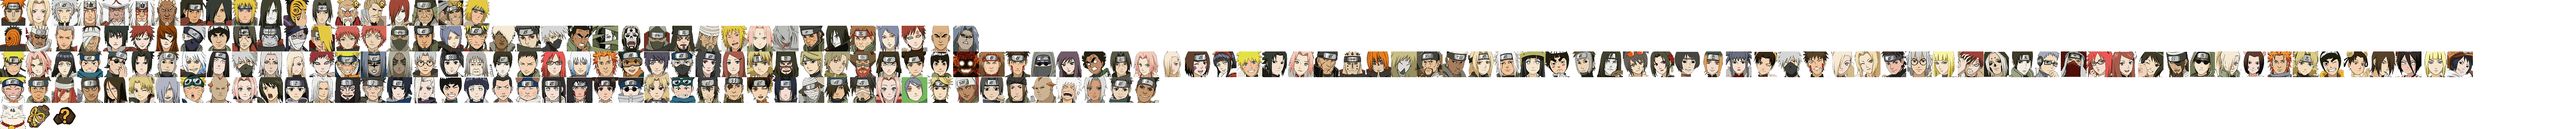
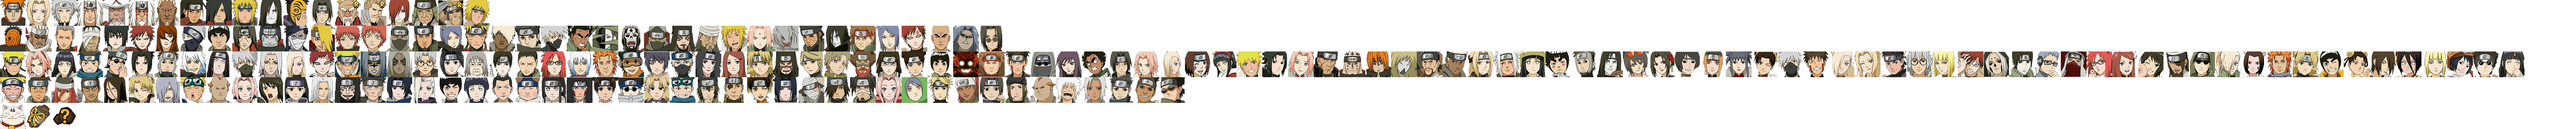
分享图忍者更新
1. 宇智波鼬[新春限定]、油女志乃[新春限定]、山城青叶

Changed region(s): [[0.9375, 0.3961, 1.0, 0.6094], [0.4375, 0.5789, 0.4688, 0.7922], [0.375, 0.1828, 0.4062, 0.3961]]

diff --git a/ninjashare.html b/ninjashare.html
@@ -264,7 +264,7 @@ function fastmode(){
                 </div>
                 <div class="form_item form_item_ninja">
                 	<label class="dt">忍者数量</label>
-                    <div class="dd"><input maxscore="196" type="number" name="ninja_number" id="input_ninja_number" class="input_text" placeholder="最多196个" oninput="MaxScore($(this));" onBlur="tongbuimg($('#txt_wode_num'),this)" data-default="100" /></div>
+                    <div class="dd"><input maxscore="202" type="number" name="ninja_number" id="input_ninja_number" class="input_text" placeholder="最多202个" oninput="MaxScore($(this));" onBlur="tongbuimg($('#txt_wode_num'),this)" data-default="100" /></div>
                 </div>
                 
                 <div class="btns">
@@ -509,6 +509,12 @@ function fastmode(){
 								
 								<li class="line"></li>
 								
+                                <li class="item_wrap btn ease1" data-rank="a" data-id="90279" data-name="宇智波鼬[新春限定]">
+                                    <div class="item">
+                                        <div class="img" style="background-position:-2736px -72px;"></div>
+                                        <div class="fg"></div>
+                                    </div>
+                                </li>
                                 <li class="item_wrap btn ease1" data-rank="a" data-id="90274" data-name="宇智波佐助[疾风传咒印]">
                                     <div class="item">
                                         <div class="img" style="background-position:-2664px -72px;"></div>
@@ -609,6 +615,12 @@ function fastmode(){
                         </div>
                         <div class="tabbox_bd_item tabbox_bd_item_b">
                             <ul class="ninjalist">
+                                <li class="item_wrap btn ease1" data-rank="b" data-id="90280" data-name="油女志乃[新春限定]">
+                                    <div class="item">
+                                        <div class="img" style="background-position:-6912px -144px;"></div>
+                                        <div class="fg"></div>
+                                    </div>
+                                </li>
                                 <li class="item_wrap btn ease1" data-rank="b" data-id="90276" data-name="黑土[圣诞奇缘]">
                                     <div class="item">
                                         <div class="img" style="background-position:-6840px -144px;"></div>
@@ -811,6 +823,12 @@ function fastmode(){
                         </div>
                         <div class="tabbox_bd_item tabbox_bd_item_c">
                             <ul class="ninjalist">
+                                <li class="item_wrap btn ease1" data-rank="c" data-id="90147" data-name="山城青叶">
+                                    <div class="item">
+                                        <div class="img" style="background-position:-3240px -216px;"></div>
+                                        <div class="fg"></div>
+                                    </div>
+                                </li>
                                 <li class="item_wrap btn ease1" data-rank="c" data-id="90200" data-name="鬼童丸[秽土转生]">
                                     <div class="item">
                                         <div class="img" style="background-position:-3168px -216px;"></div>
@@ -881,6 +899,11 @@ function fastmode(){
                     <p><br></p>
                     <p>更新日志</p>
                     <hr>
+                    <p>>>>>>忍者更新</p>
+                    <p>日期：20200116</p>
+                    <p>1、宇智波鼬[新春限定]、油女志乃[新春限定]、山城青叶</p>
+                    <p><br></p>
+                    <p><br></p>
                     <p>>>>>>忍者更新</p>
                     <p>日期：20200102</p>
                     <p>1、波风水门[秽土转生]</p>

diff --git a/css/style_ninjashare.css b/css/style_ninjashare.css
@@ -361,7 +361,7 @@ body{ height: 100%; width: 100%; overflow-y:auto; background:#000 url(../images/
 .ninjalist li.line{ width: 100%; height: .01rem; background:#fff; opacity: .3; }
 .ninjalist .item_wrap{display:inline-block;width: 80px;margin: 10px 10px; cursor: pointer;  }
 .ninjalist .item{ width: 72px; height: 72px; padding: 3px; background:url(../images/piece_bg_default.png) no-repeat center; background-size:100% 100%; position: relative; margin: 0 auto;  }
-.ninjalist .item .img{ display: block; width: 72px; height: 72px;background-image:url(../images/charactors.png?v2020010201); background-size: 7200px 360px; background-repeat: no-repeat; position: absolute; left: 50%; top: 50%; margin-left:-36px; margin-top:-36px; }
+.ninjalist .item .img{ display: block; width: 72px; height: 72px;background-image:url(../images/charactors.png?v2020011601); background-size: 7200px 360px; background-repeat: no-repeat; position: absolute; left: 50%; top: 50%; margin-left:-36px; margin-top:-36px; }
 .ninjalist .item_wrap .item:after{content:''; display: none; position: absolute; width: 82px; height: 82px; left: 50%; top: 50%; margin-left: -41px; margin-top: -41px; background:url(../images/ninja_active.png); background-size: 100% 100%; }
 .ninjalist .item_wrap.active .item:after{ display: block; }
 .ninjalist .item .fg{display: block; width: 100%; height: 100%; position: absolute; left: 0; top: 0; background:url(../images/piece_fg_default.png) no-repeat center; background-size: 100% 100%;}

diff --git a/README.md b/README.md
@@ -5,6 +5,11 @@
 ### 更新日志
 
 
+##### 忍者分享图更新
+日期：20200116
+1. 宇智波鼬[新春限定]、油女志乃[新春限定]、山城青叶
+
+
 ##### 忍者更新
 日期：20200109
 1. 上架波风水门[秽土转生]、旗木卡卡西[少年]、水木[咒印]；下架猿飞日斩[秽土转生]、日向雏田[疾风传]、海野伊鲁卡。
